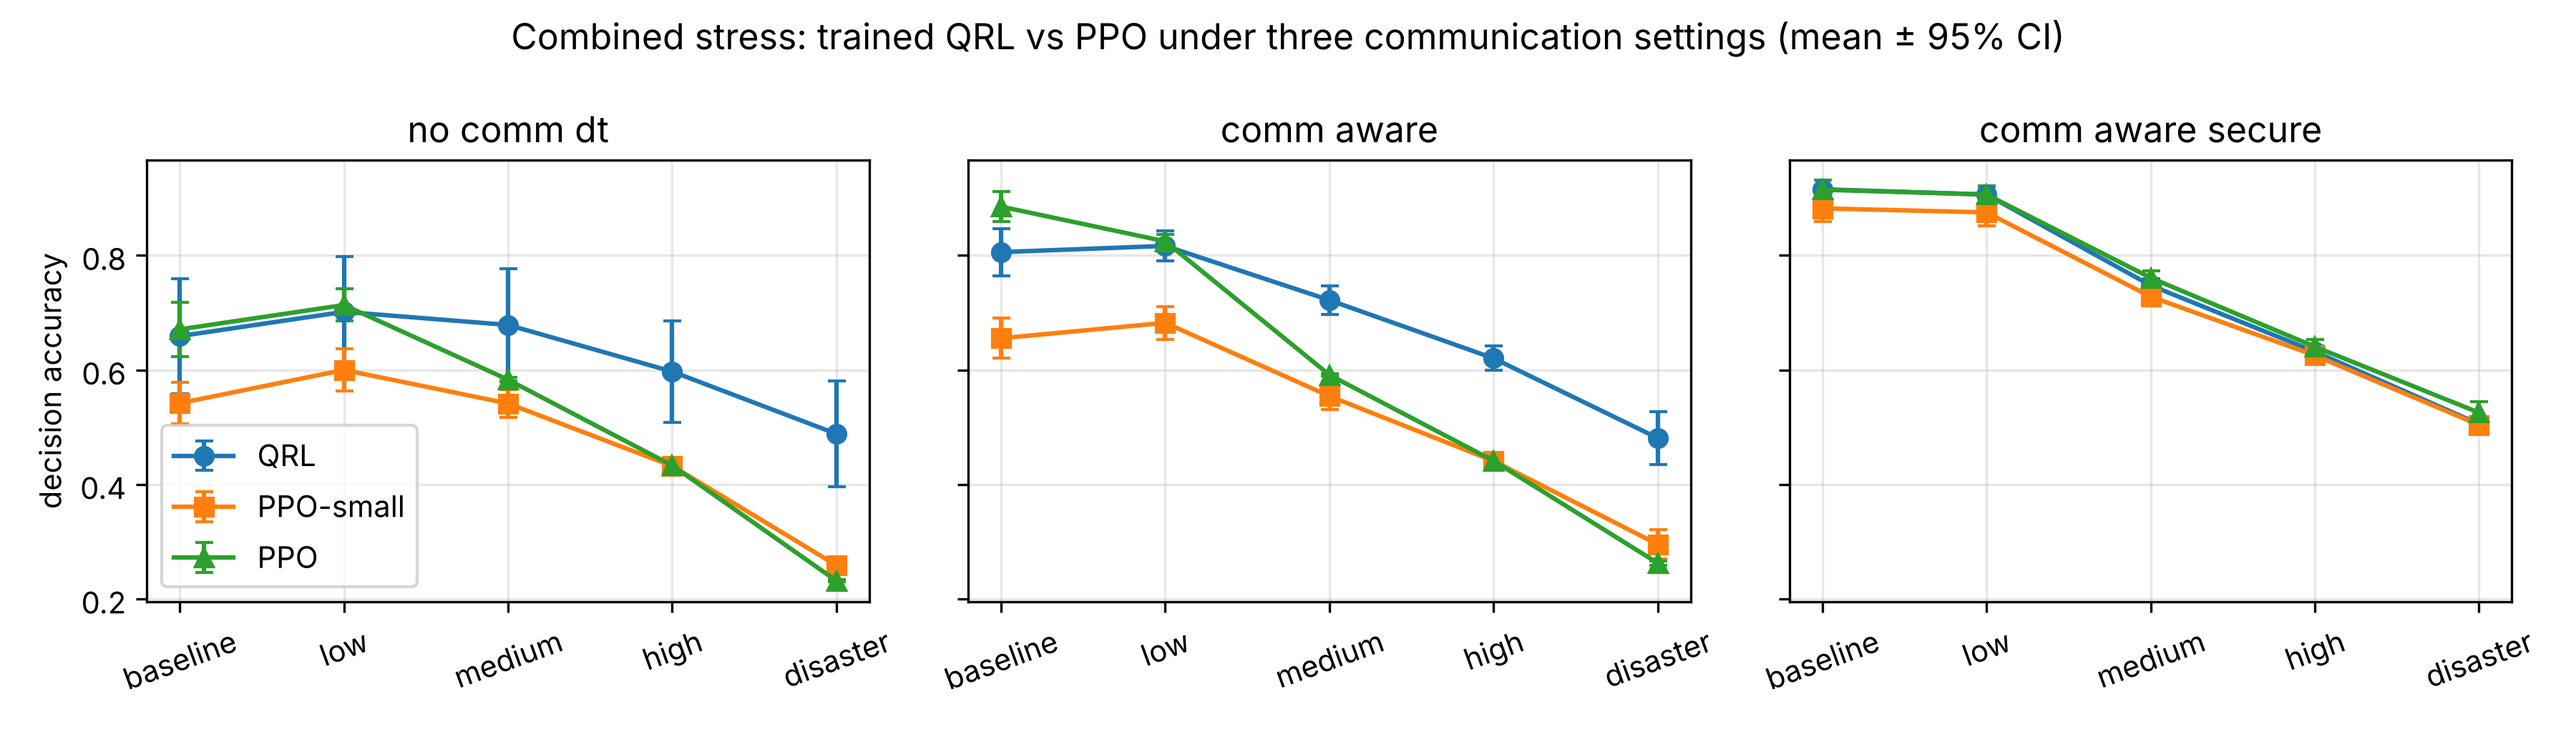
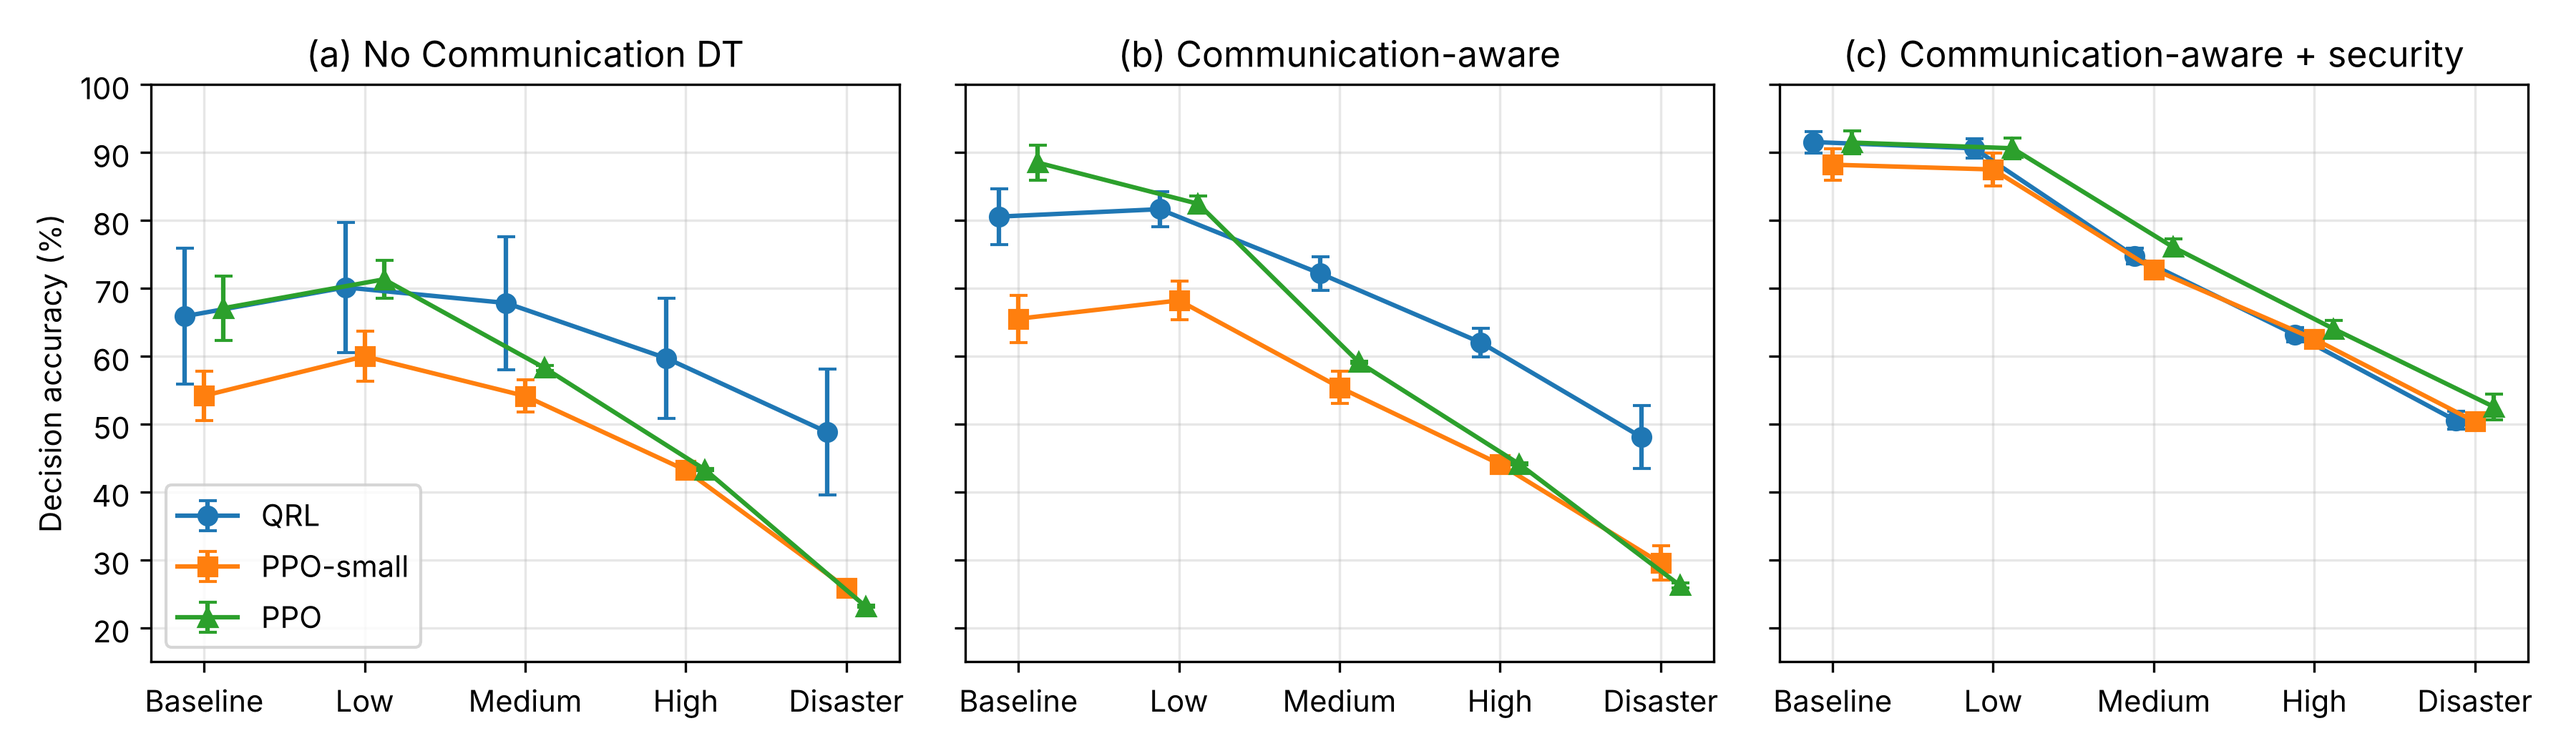
Add lr/lam/scale sweeps, security-mode comparison, crypto benchmark, results

diff --git a/experiments/qrl/run_security_modes.py b/experiments/qrl/run_security_modes.py
@@ -1,0 +1,58 @@
+"""R1 5.1 / 5.2: QKD-only vs PQC-only vs hybrid QKD+PQC, downstream decision accuracy.
+
+Modeling (stated in the paper):
+  * PQC-only and hybrid: tampered reports are rejected (AEAD tag / QBER check),
+    and key establishment never blocks a message (ML-KEM is always available).
+    In this decision model the two are therefore identical; QKD's extra value in the
+    hybrid (long-term confidentiality, detection of passive eavesdropping) does not
+    change what the Computational DT sees and is discussed qualitatively.
+  * QKD-only: tampering is rejected, but with probability 1 - a the feeder hop has no
+    QKD key for a message (key rate below demand), so the report is held back.
+    a (key availability) is swept as a controlled parameter, not mapped to a hurricane level.
+  * No security: reports are accepted as received.
+"""
+import json, sys, time
+from pathlib import Path
+import numpy as np, torch
+from qt_agents import evaluate, train_ppo
+from run_experiments import make_actor, LOSS, ATTACK, LATENCY, STRESS
+
+torch.set_num_threads(1)
+OUT = Path(__file__).parent / "results"
+AVAIL = [1.0, 0.8, 0.6, 0.4, 0.2]
+
+def sampler(secure, avail_choices=None):
+    def f(rng):
+        c = dict(packet_loss=float(rng.choice(LOSS)), attack_rate=float(rng.choice(ATTACK)),
+                 latency_ms=float(rng.choice(LATENCY)), secure=secure)
+        if avail_choices:
+            c["qkd_avail"] = float(rng.choice(avail_choices))
+        return c
+    return f
+
+MODES = {  # name: (secure, training availability choices, evaluated availability)
+    "none": (False, None, [1.0]),
+    "pqc_or_hybrid": (True, None, [1.0]),
+    "qkd_only": (True, AVAIL, AVAIL),
+}
+
+def main(seeds=range(5), episodes=1000, eval_seeds=list(range(20))):
+    runs = []
+    env_kw = dict(n_segments=15, comm_aware=True)
+    for mode, (secure, tr_av, ev_av) in MODES.items():
+        for kind in ["QRL", "PPO"]:
+            for s in seeds:
+                actor = make_actor(kind, 5); t0 = time.time()
+                train_ppo(actor, 5, env_kw, sampler(secure, tr_av), seed=s, episodes=episodes)
+                ev = {}
+                for sc in ["baseline", "medium", "disaster"]:
+                    for a in ev_av:
+                        cond = dict(STRESS[sc], secure=secure)
+                        if a < 1.0: cond["qkd_avail"] = a
+                        ev[f"{sc}_{a}"] = evaluate(actor, env_kw, cond, eval_seeds)
+                runs.append(dict(mode=mode, kind=kind, seed=s, train_seconds=time.time()-t0, eval=ev))
+                print(mode, kind, s, {k: round(v["accuracy"], 3) for k, v in ev.items() if k.startswith("medium")}, flush=True)
+                (OUT / "security_modes.json").write_text(json.dumps(dict(avail=AVAIL, runs=runs)))
+
+if __name__ == "__main__":
+    main()

diff --git a/experiments/crypto/bench_aes.py b/experiments/crypto/bench_aes.py
@@ -1,0 +1,58 @@
+"""
+AES-256-GCM cost and key consumption for QuakeTwin (R1 comment 4.3).
+
+Measures encrypt+decrypt time for DT synchronization-sized messages and
+reports how much key material each scheme consumes:
+  * AES-256-GCM session keys refreshed every 50 messages (QuakeTwin design)
+  * one-time pad (key material = message size)
+Also times ML-KEM-768 key establishment if the installed `cryptography`
+build provides it.
+"""
+import json, os, platform, statistics, time
+from cryptography.hazmat.primitives.ciphers.aead import AESGCM
+
+SIZES = [256, 1024, 4096]          # bytes per DT sync message
+N = 20000
+REFRESH = 50                       # messages per 256-bit session key
+out = dict(platform=platform.platform(), machine=platform.machine(), cpus=os.cpu_count(), n_messages=N, results=[])
+
+for size in SIZES:
+    key = AESGCM.generate_key(bit_length=256)
+    aead = AESGCM(key)
+    msg = os.urandom(size)
+    lat = []
+    for i in range(N):
+        nonce = os.urandom(12)
+        t = time.perf_counter_ns()
+        ct = aead.encrypt(nonce, msg, b"dt-sync")
+        pt = aead.decrypt(nonce, ct, b"dt-sync")
+        lat.append(time.perf_counter_ns() - t)
+        assert pt == msg
+    lat_us = [x / 1000 for x in lat]
+    mean = statistics.mean(lat_us)
+    out["results"].append(dict(
+        message_bytes=size,
+        enc_dec_mean_us=round(mean, 2),
+        enc_dec_p99_us=round(sorted(lat_us)[int(0.99 * N)], 2),
+        throughput_MBps=round(size / mean, 1),            # bytes per microsecond == MB/s
+        key_bits_per_msg_aes=256 / REFRESH,
+        key_bits_per_msg_otp=size * 8,
+    ))
+
+try:
+    from cryptography.hazmat.primitives.asymmetric import mlkem  # noqa
+    from cryptography.hazmat.primitives.asymmetric.mlkem import MLKEM768PrivateKey
+    sk = MLKEM768PrivateKey.generate(); pk = sk.public_key()
+    t = []
+    for _ in range(2000):
+        t0 = time.perf_counter_ns(); ss, ct = pk.encapsulate(); ss2 = sk.decapsulate(ct); t.append(time.perf_counter_ns() - t0)
+        assert ss == ss2
+    out["mlkem768_encap_decap_mean_us"] = round(statistics.mean(t) / 1000, 2)
+except Exception as e:  # not available in this build
+    out["mlkem768_encap_decap_mean_us"] = None
+    out["mlkem_note"] = f"ML-KEM not available in installed cryptography: {type(e).__name__}"
+
+os.makedirs("results", exist_ok=True)
+with open("results/aes_bench.json", "w") as f:
+    json.dump(out, f, indent=2)
+print(json.dumps(out, indent=2))

diff --git a/experiments/qrl/run_experiments.py b/experiments/qrl/run_experiments.py
@@ -66,6 +66,25 @@ def make_actor(kind, obs_dim, n_qubits=2, n_layers=2):
     raise ValueError(kind)
 
 
+def run_scale(kind, seed, episodes, eval_seeds):
+    """Train at 15 segments (random damage), evaluate at 15/100/200 segments
+    under random and spatially concentrated damage. The policy is shared
+    per segment, so its input size does not change with network size."""
+    aware, secure = COMM_SETTINGS["comm_aware_secure"]
+    obs_dim = 5
+    actor = make_actor(kind, obs_dim)
+    t0 = time.time()
+    train_ppo(actor, obs_dim, dict(n_segments=15, comm_aware=aware), sampler(secure), seed=seed, episodes=episodes)
+    train_s = time.time() - t0
+    ev = {}
+    for n in [15, 100, 200]:
+        for dmg in ["random", "concentrated"]:
+            kw = dict(n_segments=n, comm_aware=aware, damage=dmg)
+            ev[f"{n}_{dmg}"] = {k: evaluate(actor, kw, dict(STRESS[k], secure=secure), eval_seeds)
+                                for k in ["baseline", "medium", "disaster"]}
+    return dict(kind=kind, seed=seed, params=actor.param_report(), train_seconds=train_s, eval=ev)
+
+
 def run_one(kind, setting, seed, episodes, eval_seeds, n_qubits=2, n_layers=2, full_eval=True):
     aware, secure = COMM_SETTINGS[setting]
     env_kw = dict(n_segments=15, comm_aware=aware)
@@ -122,5 +141,21 @@ def main(mode):
                     save("qubits", runs, meta)
 
 
+def scale_main():
+    seeds, episodes, eval_seeds = list(range(5)), 1000, list(range(10))
+    runs = []
+    meta = dict(seeds=seeds, episodes=episodes, eval_seeds=eval_seeds, train_segments=15,
+                eval_segments=[15, 100, 200], damage=["random", "concentrated"])
+    for kind in ["QRL", "PPO-small", "PPO"]:
+        for s in seeds:
+            r = run_scale(kind, s, episodes, eval_seeds)
+            runs.append(r)
+            print(f"scale {kind:9s} seed={s} 200_conc medium acc="
+                  f"{r['eval']['200_concentrated']['medium']['accuracy']:.3f} ({r['train_seconds']:.0f}s)", flush=True)
+            save("scale", runs, meta)
+
+
 if __name__ == "__main__":
+    if len(sys.argv) > 1 and sys.argv[1] == "scale":
+        scale_main(); sys.exit(0)
     main(sys.argv[1] if len(sys.argv) > 1 else "smoke")

diff --git a/experiments/qrl/qt_env.py b/experiments/qrl/qt_env.py
@@ -32,8 +32,12 @@ class Channel:
     """Sensor -> Communication DT -> Computational DT delivery model."""
 
     def __init__(self, rng, packet_loss=0.0, latency_ms=0.0, attack_rate=0.0,
-                 secure=False, base_qber=0.02, step_ms=250.0):
+                 secure=False, base_qber=0.02, step_ms=250.0, qkd_avail=1.0):
         self.rng = rng
+        # qkd_avail < 1 models QKD-only operation: with probability 1 - qkd_avail
+        # the feeder hop has no QKD key for a message, so it cannot be sent securely.
+        # The default (1.0) draws no random number, so earlier results are unchanged.
+        self.qkd_avail = qkd_avail
         self.packet_loss = packet_loss
         self.lag = int(latency_ms // step_ms)          # steps of delay
         self.attack_rate = attack_rate
@@ -51,6 +55,9 @@ class Channel:
         if self.rng.random() < self.packet_loss:
             self.stats["dropped"] += 1
             return None, False, None
+        if self.secure and self.qkd_avail < 1.0 and self.rng.random() > self.qkd_avail:
+            self.stats["dropped"] += 1
+            return None, False, None   # no key material: message held back
         value = history[-1 - min(self.lag, len(history) - 1)]
         if self.rng.random() < self.attack_rate:
             self.stats["attacked"] += 1

diff --git a/experiments/qrl/results/scale_summary.md b/experiments/qrl/results/scale_summary.md
@@ -1,0 +1,22 @@
+# Scale / damage-pattern (trained at 15 segments, random damage; comm_aware_secure). accuracy %, mean ± 95% CI over 5 seeds
+
+| network | damage | stress | QRL | PPO-small | PPO |
+|---|---|---|---|---|---|
+| 15 | random | baseline | 92.1 ± 3.6 | 85.7 ± 5.9 | 91.5 ± 3.4 |
+| 15 | random | medium | 73.6 ± 2.7 | 70.1 ± 3.0 | 76.2 ± 2.7 |
+| 15 | random | disaster | 49.1 ± 2.3 | 47.5 ± 2.4 | 50.8 ± 1.4 |
+| 15 | concentrated | baseline | 96.2 ± 1.4 | 93.2 ± 2.8 | 96.0 ± 1.3 |
+| 15 | concentrated | medium | 81.1 ± 0.5 | 80.1 ± 1.0 | 82.2 ± 1.4 |
+| 15 | concentrated | disaster | 70.3 ± 0.4 | 70.1 ± 0.6 | 70.1 ± 0.5 |
+| 100 | random | baseline | 92.8 ± 3.4 | 88.0 ± 4.4 | 92.4 ± 2.8 |
+| 100 | random | medium | 76.4 ± 1.7 | 73.4 ± 3.2 | 77.7 ± 1.7 |
+| 100 | random | disaster | 49.8 ± 1.9 | 48.3 ± 2.5 | 51.2 ± 1.1 |
+| 100 | concentrated | baseline | 96.9 ± 1.3 | 93.1 ± 3.8 | 96.7 ± 0.9 |
+| 100 | concentrated | medium | 84.6 ± 1.0 | 83.2 ± 1.7 | 85.4 ± 1.1 |
+| 100 | concentrated | disaster | 68.2 ± 0.8 | 67.9 ± 0.6 | 68.7 ± 0.3 |
+| 200 | random | baseline | 92.8 ± 3.3 | 87.5 ± 4.7 | 92.4 ± 2.9 |
+| 200 | random | medium | 76.1 ± 1.9 | 73.2 ± 3.1 | 77.6 ± 1.9 |
+| 200 | random | disaster | 52.6 ± 1.8 | 50.4 ± 2.8 | 53.5 ± 1.0 |
+| 200 | concentrated | baseline | 96.7 ± 1.6 | 92.5 ± 3.9 | 96.4 ± 1.1 |
+| 200 | concentrated | medium | 84.7 ± 1.2 | 83.1 ± 2.1 | 85.6 ± 1.2 |
+| 200 | concentrated | disaster | 67.9 ± 1.0 | 67.3 ± 1.0 | 68.7 ± 0.8 |
